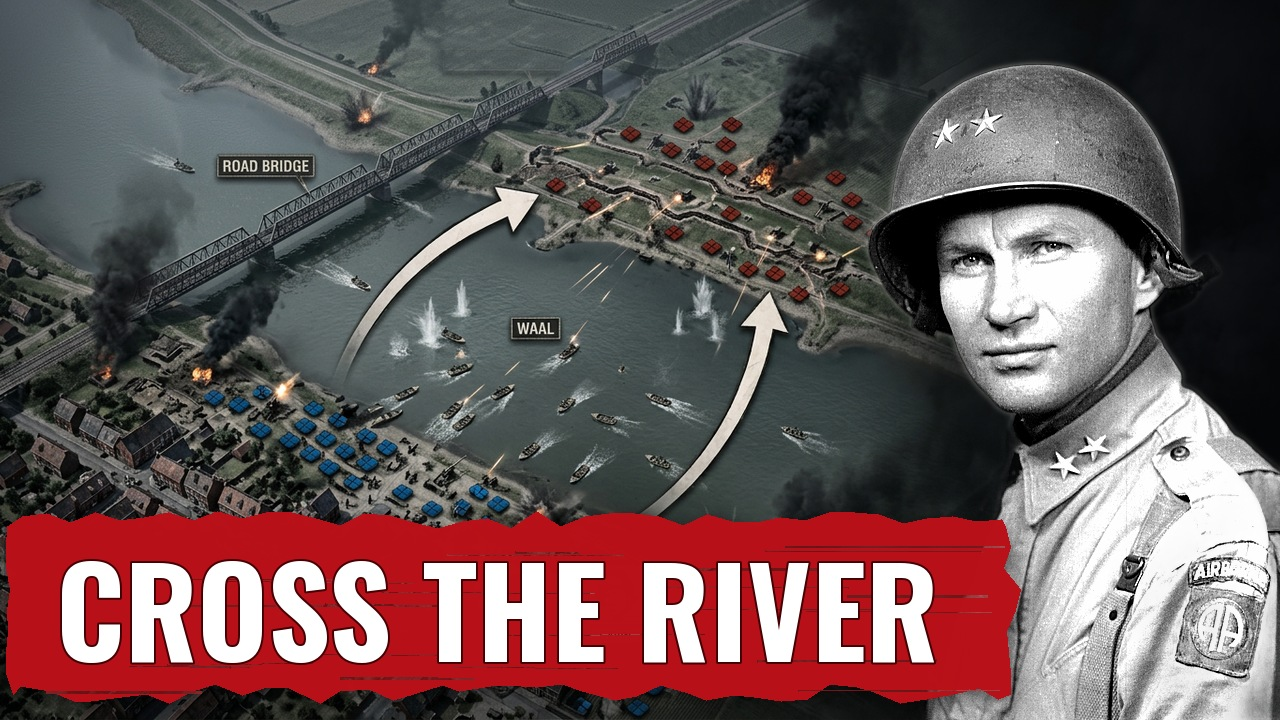
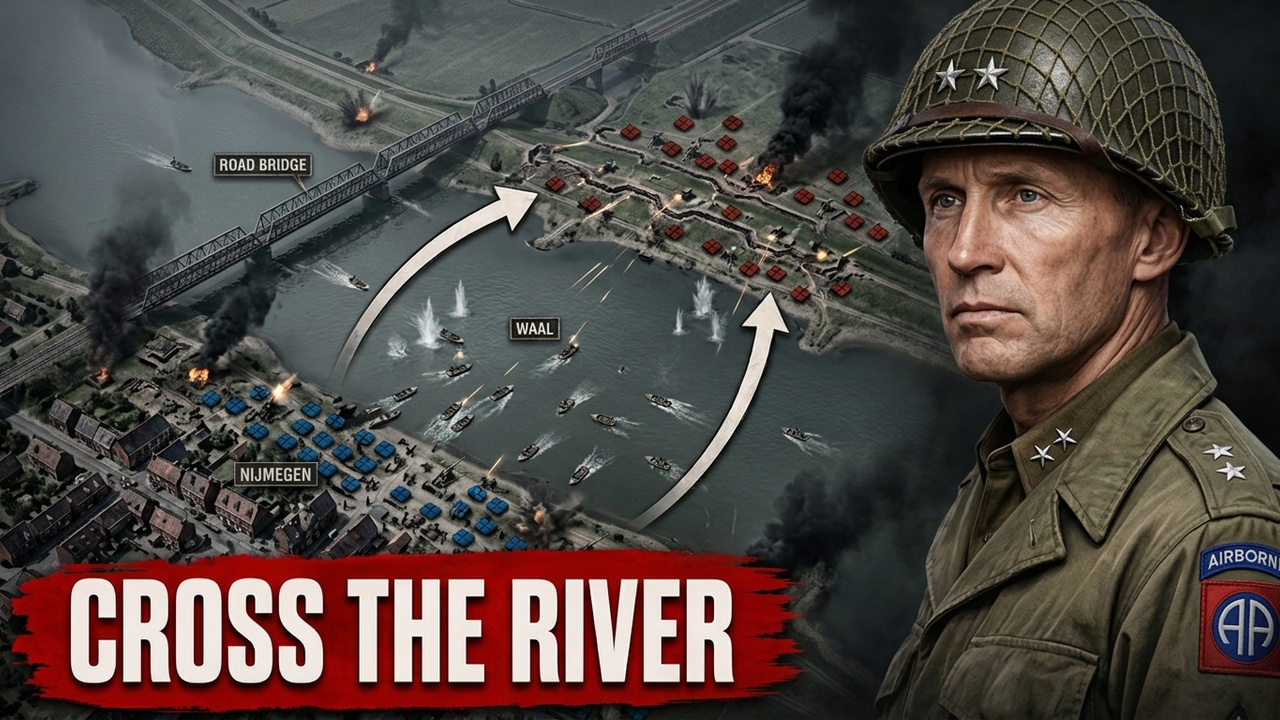
Gavin: final thumbnails rebuilt whole by vidIQ in colour (A CROSS THE RIVER, B IN BROAD DAYLIGHT, vidIQ 97/96); composed B&W versions moved to old/
Claude-Session: https://claude.ai/code/session_01WkfTXMijzYmHkT983gtuMT

diff --git a/gavin/tools/make_thumb.py b/gavin/tools/make_thumb.py
@@ -1,4 +1,5 @@
-"""Gavin thumbnails, Tactical Genius formula (HANDOVER 1b + face pop STYLE_LOCK 6), redone 2026-10-26 after the owner rejected the first version:
+"""SUPERSEDED (owner 2026-10-26: the portrait must be in COLOUR and the thumbnail generated whole by vidIQ; the final Gavin thumbnails are bg_vidiq_full_A/B.png). Kept only as the old composing approach.
+Gavin thumbnails, Tactical Genius formula (HANDOVER 1b + face pop STYLE_LOCK 6), redone 2026-10-26 after the owner rejected the first version:
 vidIQ battlefield (dark aerial, Waal crossing = the hook scene = the title promise) on the left 2/3, Gavin's REAL PD photo cut out on the right third
 (fades into the dark edge, NO glow; a mild face pop: contrast + a thin faint rim), rough red brush-stroke banner bottom-left, 1-3 words.
 Wrong/ambiguous AI labels are inpainted; the AI 'GAVIN' tag portrait is replaced by the real photo (never a fake likeness).
